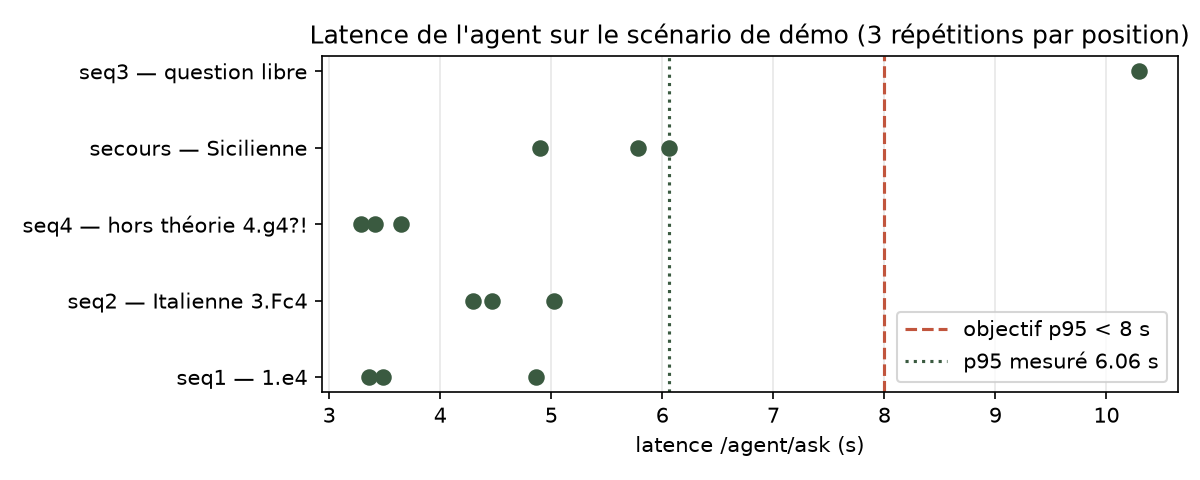
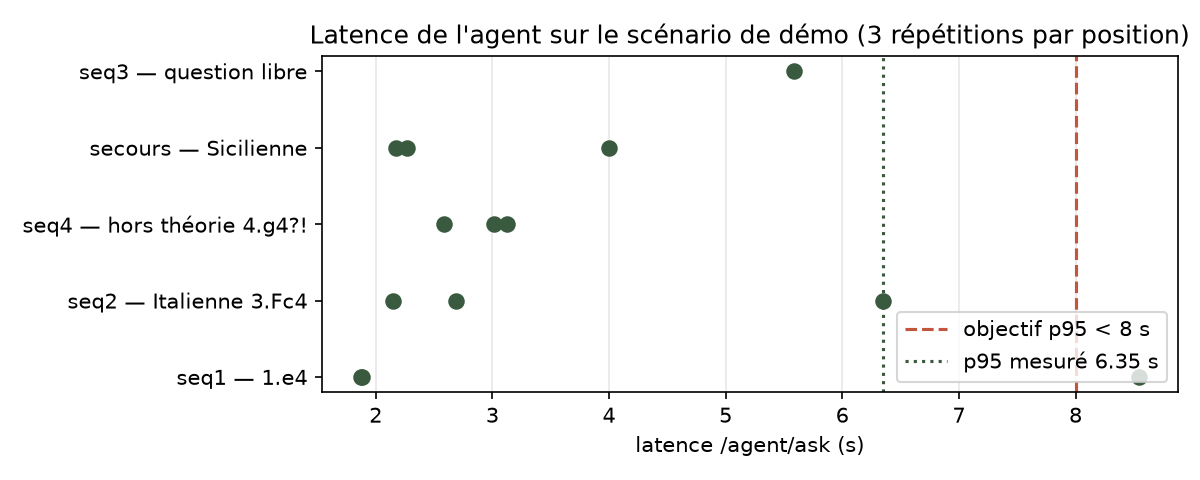
docs+mesures: la vue en deux local/en ligne (notebook 05 §3 bis) + liens de la vitrine
Même scénario, même protocole, deux cibles : LOCAL p50 2,7 s / p95 6,35 s
(synthèse LLM locale comprise) vs EN LIGNE p50 0,82 s / p95 0,96 s (vitrine HF,
gabarit sans LLM + réseau) — l'enseignement : la rédaction LLM domine la
latence, sans elle la réponse sourcée passe sous la seconde. Diapo 9 : tableau
+ vue double ; diapo 11 et README : lien https://trikwi-p13-agent-echecs.hf.space ;
limites README dépoussiérées (règle des rayons + filet 0,58, vitrine en ligne).

diff --git a/livrables/rendu/presentation-soutenance.html b/livrables/rendu/presentation-soutenance.html
@@ -261,13 +261,19 @@
       <tr><td>Abstention sur les pièges</td><td><b>5 / 5</b> — par construction</td></tr>
       <tr><td>Réponses sourcées</td><td><b>100 %</b> — garanti par le code</td></tr>
       <tr><td>Recherche vectorielle p95</td><td><b>7–11 ms</b></td></tr>
-      <tr><td>Latence agent p95</td><td><b>6,1 s</b> (médiane 4,5 s)</td></tr>
+      <tr><td>Latence agent p95</td><td><b>6,3 s</b> local (LLM compris) · <b>0,96 s</b> en ligne (sans LLM)</td></tr>
       <tr><td>Coût LLM du POC</td><td><b>0 €</b></td></tr>
     </table>
     <div class="grow" style="text-align:center;">
       <img src="../../notebooks/figures/06-latences-agent.png" style="width: 100%; border-radius: 10px; border: 1px solid #7A756C;">
       <p class="small">Les latences réelles du scénario de démo (notebook 05, 3 répétitions par position) — LLM local compris.</p>
     </div>
+  </div>
+  <div class="row" style="margin-top: 10px; margin-bottom: 6px;">
+    <div class="card grow"><div class="stitle">Local — poste complet (LLM qwen local)</div>
+      <p class="small">p50 <b>2,7 s</b> · p95 <b>6,3 s</b> — la rédaction LLM domine la latence</p></div>
+    <div class="card key grow"><div class="stitle">En ligne — vitrine HF (gabarit, sans LLM)</div>
+      <p class="small">p50 <b>0,8 s</b> · p95 <b>0,96 s</b> — la réponse sourcée passe <b>sous la seconde</b> · même scénario, même protocole (notebook 05 §3 bis) · trikwi-p13-agent-echecs.hf.space</p></div>
   </div>
   <p class="body" style="text-align:center; margin-top: 8px;">Le POC atteint ses objectifs fonctionnels et reste assez rapide pour un usage interactif. <span class="small">Chaque chiffre vient d'un notebook exécuté ou d'un run MLflow versionné.</span></p>
   <div class="footer"><span>Cavalier Data × FFE</span><span>notebook 05 · MLflow gold-set-rag</span><span>9 / 13</span></div>
@@ -290,7 +296,7 @@
 <div class="slide">
   <div class="kicker">Le déploiement · Les coûts</div>
   <h1>Un POC reproductible — et ce qu'il coûte</h1>
-  <div class="card" style="background:#EDE7DA; font-family: 'SF Mono', Menlo, monospace; font-size: 22px; text-align:center; padding: 14px; border-radius: 16px; margin-bottom: 16px;">$ ./demarrer.sh &nbsp;&nbsp;<span style="font-size:14px; color:#7A756C;">7 conteneurs + le modèle local — installation fraîche mesurée : <b>app utilisable en 2 min 09</b>, bibliothèque prête à 2 min 28</span></div>
+  <div class="card" style="background:#EDE7DA; font-family: 'SF Mono', Menlo, monospace; font-size: 22px; text-align:center; padding: 14px; border-radius: 16px; margin-bottom: 16px;">$ ./demarrer.sh &nbsp;&nbsp;<span style="font-size:14px; color:#7A756C;">7 conteneurs + le modèle local — installation fraîche mesurée : <b>app utilisable en 2 min 09</b> · vitrine publique auto-déployée (GitHub Actions → HF) : <b>trikwi-p13-agent-echecs.hf.space</b></span></div>
   <div class="row" style="align-items: stretch;">
     <div class="card grow"><div class="stitle">POC : 0 €</div>
       <p class="body">données libres (CC0, CC BY-SA) · Stockfish et embeddings open source · LLM local — <b>le poste payant a été supprimé par la mesure</b> · YouTube : ~300 unités réelles sur 10 000/jour</p></div>
@@ -327,7 +333,7 @@
     <div class="card key" style="max-width: 780px; margin: 0 auto 26px; text-align:center; font-size: 26px; font-weight: 500; padding: 30px;">
       La promesse : un retour de niveau entraîneur, à la demande.
     </div>
-    <p style="text-align:center;" class="body"><b>Démontré et mesuré</b> : 0/56 coup illégal · abstention 5/5 · 100 % sourcé · p95 6,1 s · 0 € de LLM · installation 2 min 09</p>
+    <p style="text-align:center;" class="body"><b>Démontré et mesuré</b> : 0/56 coup illégal · abstention 5/5 · 100 % sourcé · p95 6,3 s (0,96 s en ligne) · 0 € de LLM · installation 2 min 09</p>
     <p style="text-align:center; margin-top: 10px;" class="body"><b>Limites assumées</b> : 8 ouvertures (manifeste signé) · gold set v1 grossier (v2 en axe) · exécution locale</p>
     <p style="text-align:center; margin-top: 10px;" class="body"><b>La suite</b> : groupe pilote avant les championnats d'Europe · industrialisation · MVP analyse vidéo · mode entraînement actif</p>
     <p style="text-align:center; font-size: 21px; margin-top: 24px;">→ <strong>Démo en direct</strong></p>

diff --git a/livrables/presentation-soutenance.md b/livrables/presentation-soutenance.md
@@ -119,10 +119,17 @@ La base documentaire est **construite par un pipeline rejouable** : extraction (
 | Ce qu'on promet à Léa | Cible | Mesuré |
 |---|---|---|
 | Jamais un coup illégal | 0 | **0 sur 56 coups affichés** (scénario complet rejoué) |
-| Une réponse rapide | p95 < 8 s | **6,1 s** (médiane 4,5 s — rédaction LLM locale comprise) |
+| Une réponse rapide | p95 < 8 s | **6,3 s** (médiane 2,7 s — rédaction LLM locale comprise) |
 | Toujours ses sources | 100 % | **100 % — garanti par le code**, pas par le LLM |
 | Ne jamais inventer hors sujet | abstention 5/5 pièges | **5/5 — par construction** (règle des rayons) |
 | Recherche documentaire instantanée | < 100 ms | **7–11 ms** |
+
+**La vue en deux — local vs en ligne** (même scénario, même protocole, notebook 05 §3 bis) :
+
+| | **Local** (poste complet, LLM qwen local) | **En ligne** (vitrine HF, gabarit sans LLM) |
+|---|---|---|
+| p50 · p95 | 2,7 s · **6,3 s** | 0,8 s · **0,96 s** |
+| Lecture | la rédaction LLM domine la latence | sans LLM, la réponse sourcée est **sous la seconde** |
 
 **Un mot de théorie LLM** (pourquoi ces garde-fous) : un modèle de langage prédit le mot suivant — il est fait pour être *plausible*, pas pour être *vrai*. D'où l'architecture : les faits viennent de systèmes vérifiables, le LLM **met en mots** des faits qu'on lui annote (« Fc5 — le Fou va en c5 »), à basse température, avec un gabarit déterministe en repli.
 
@@ -146,7 +153,7 @@ Discipline : chaque chiffre de ce deck sort d'un notebook exécuté ou d'un run 
 ./demarrer.sh          # ou : docker compose up
 ```
 
-7 conteneurs + le modèle local sur l'hôte. Volumes persistants, secrets en variables d'environnement, CI verte. **Installation fraîche mesurée : application utilisable en 2 min 09** (bibliothèque prête à 2 min 28, protocole rejouable).
+7 conteneurs + le modèle local sur l'hôte. Volumes persistants, secrets en variables d'environnement, CI verte. **Installation fraîche mesurée : application utilisable en 2 min 09** (bibliothèque prête à 2 min 28, protocole rejouable). **Et une vitrine publique auto-déployée** (GitHub Actions → Hugging Face Space, un conteneur, gabarit sans LLM) : https://trikwi-p13-agent-echecs.hf.space
 
 **Combien ça coûte ?** POC : **0 € de consommation** (données libres, briques open source, LLM local — le poste payant a été supprimé par la mesure). Passage cloud : ≈ **0,25 centime/réponse** (option Haiku mesurée) → < 0,10 €/élève/mois. À industrialiser : hébergement UE (public mineur), stockage, supervision, montée en charge — détail dans l'étude jointe.
 

diff --git a/README.md b/README.md
@@ -15,6 +15,7 @@ Le script fait tout : Ollama vérifié/démarré + modèles téléchargés, `.en
 Équivalent manuel : copier `.env.example` en `.env` (remplir `LICHESS_API_TOKEN`, requis pour la théorie ; `YOUTUBE_API_KEY`, optionnel) puis `docker compose up -d --build`.
 
 - **Application** : http://localhost:4200 · **API (Swagger)** : http://localhost:8000/docs · **MLflow** : http://localhost:5001
+- **Démo en ligne** (vitrine mono-conteneur, gabarit sans LLM, auto-déployée par GitHub Actions) : https://trikwi-p13-agent-echecs.hf.space
 - Test d'installation fraîche (`./tester-installation.sh`, images construites et cache de build supprimés) : app utilisable en **2 min 09**, bibliothèque vectorielle prête à **2 min 28** — critère < 5 min tenu.
 
 ### Remplir la bibliothèque (une fois, ~10 min)
@@ -85,4 +86,4 @@ Gitflow simplifié : `main` (stable, démo) ← `develop` (intégration) ← `fe
 
 ## Limites connues du POC
 
-8 ouvertures couvertes (manifeste signé) ; pas d'authentification ; exécution locale uniquement ; le seuil d'abstention (`RAG_SCORE_MIN=0.63`, décidé sur données — notebook 07) bloque 4 pièges sur 5, le dernier repose sur la règle d'honnêteté du prompt ; le système d'analyse vidéo (partie 2) est une étude, non implémentée — voir `livrables/`.
+8 ouvertures couvertes (manifeste signé) ; pas d'authentification ; la vitrine en ligne est une variante dégradée assumée (gabarit sans LLM, sans cache) — la version complète s'exécute en local ; l'abstention tient par la **règle des rayons signés** + seuil filet `RAG_SCORE_MIN=0.58` (5/5 pièges par construction, notebooks 05/07) ; le système d'analyse vidéo (partie 2) est une étude, non implémentée — voir `livrables/`.
